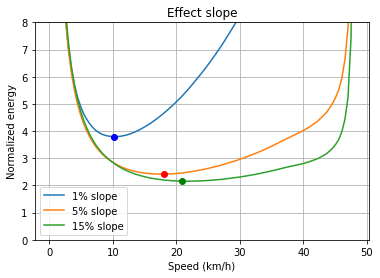
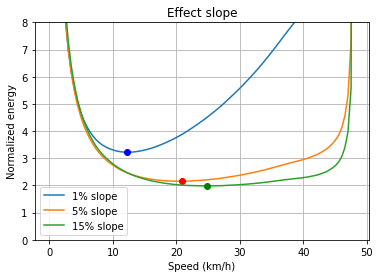
Update

diff --git a/_posts/2020-01-08-simulation.md b/_posts/2020-01-08-simulation.md
@@ -84,7 +84,7 @@ FairCoeff = 1.5*(0.5 *1.2)
 
 
 def SpecificEnergy(slope,m,v,rend,FairCoeff,U,R):
-    Fair = 0.8*FairCoeff*np.power(v/3.6,2)
+    Fair = 0.5*FairCoeff*np.power(v/3.6,2)
     Fg  = m*9.81*np.sin(np.arctan(slope))
     Ed = (Fair+Fg)/rend
     I = Ed * (v/3.6) /U
